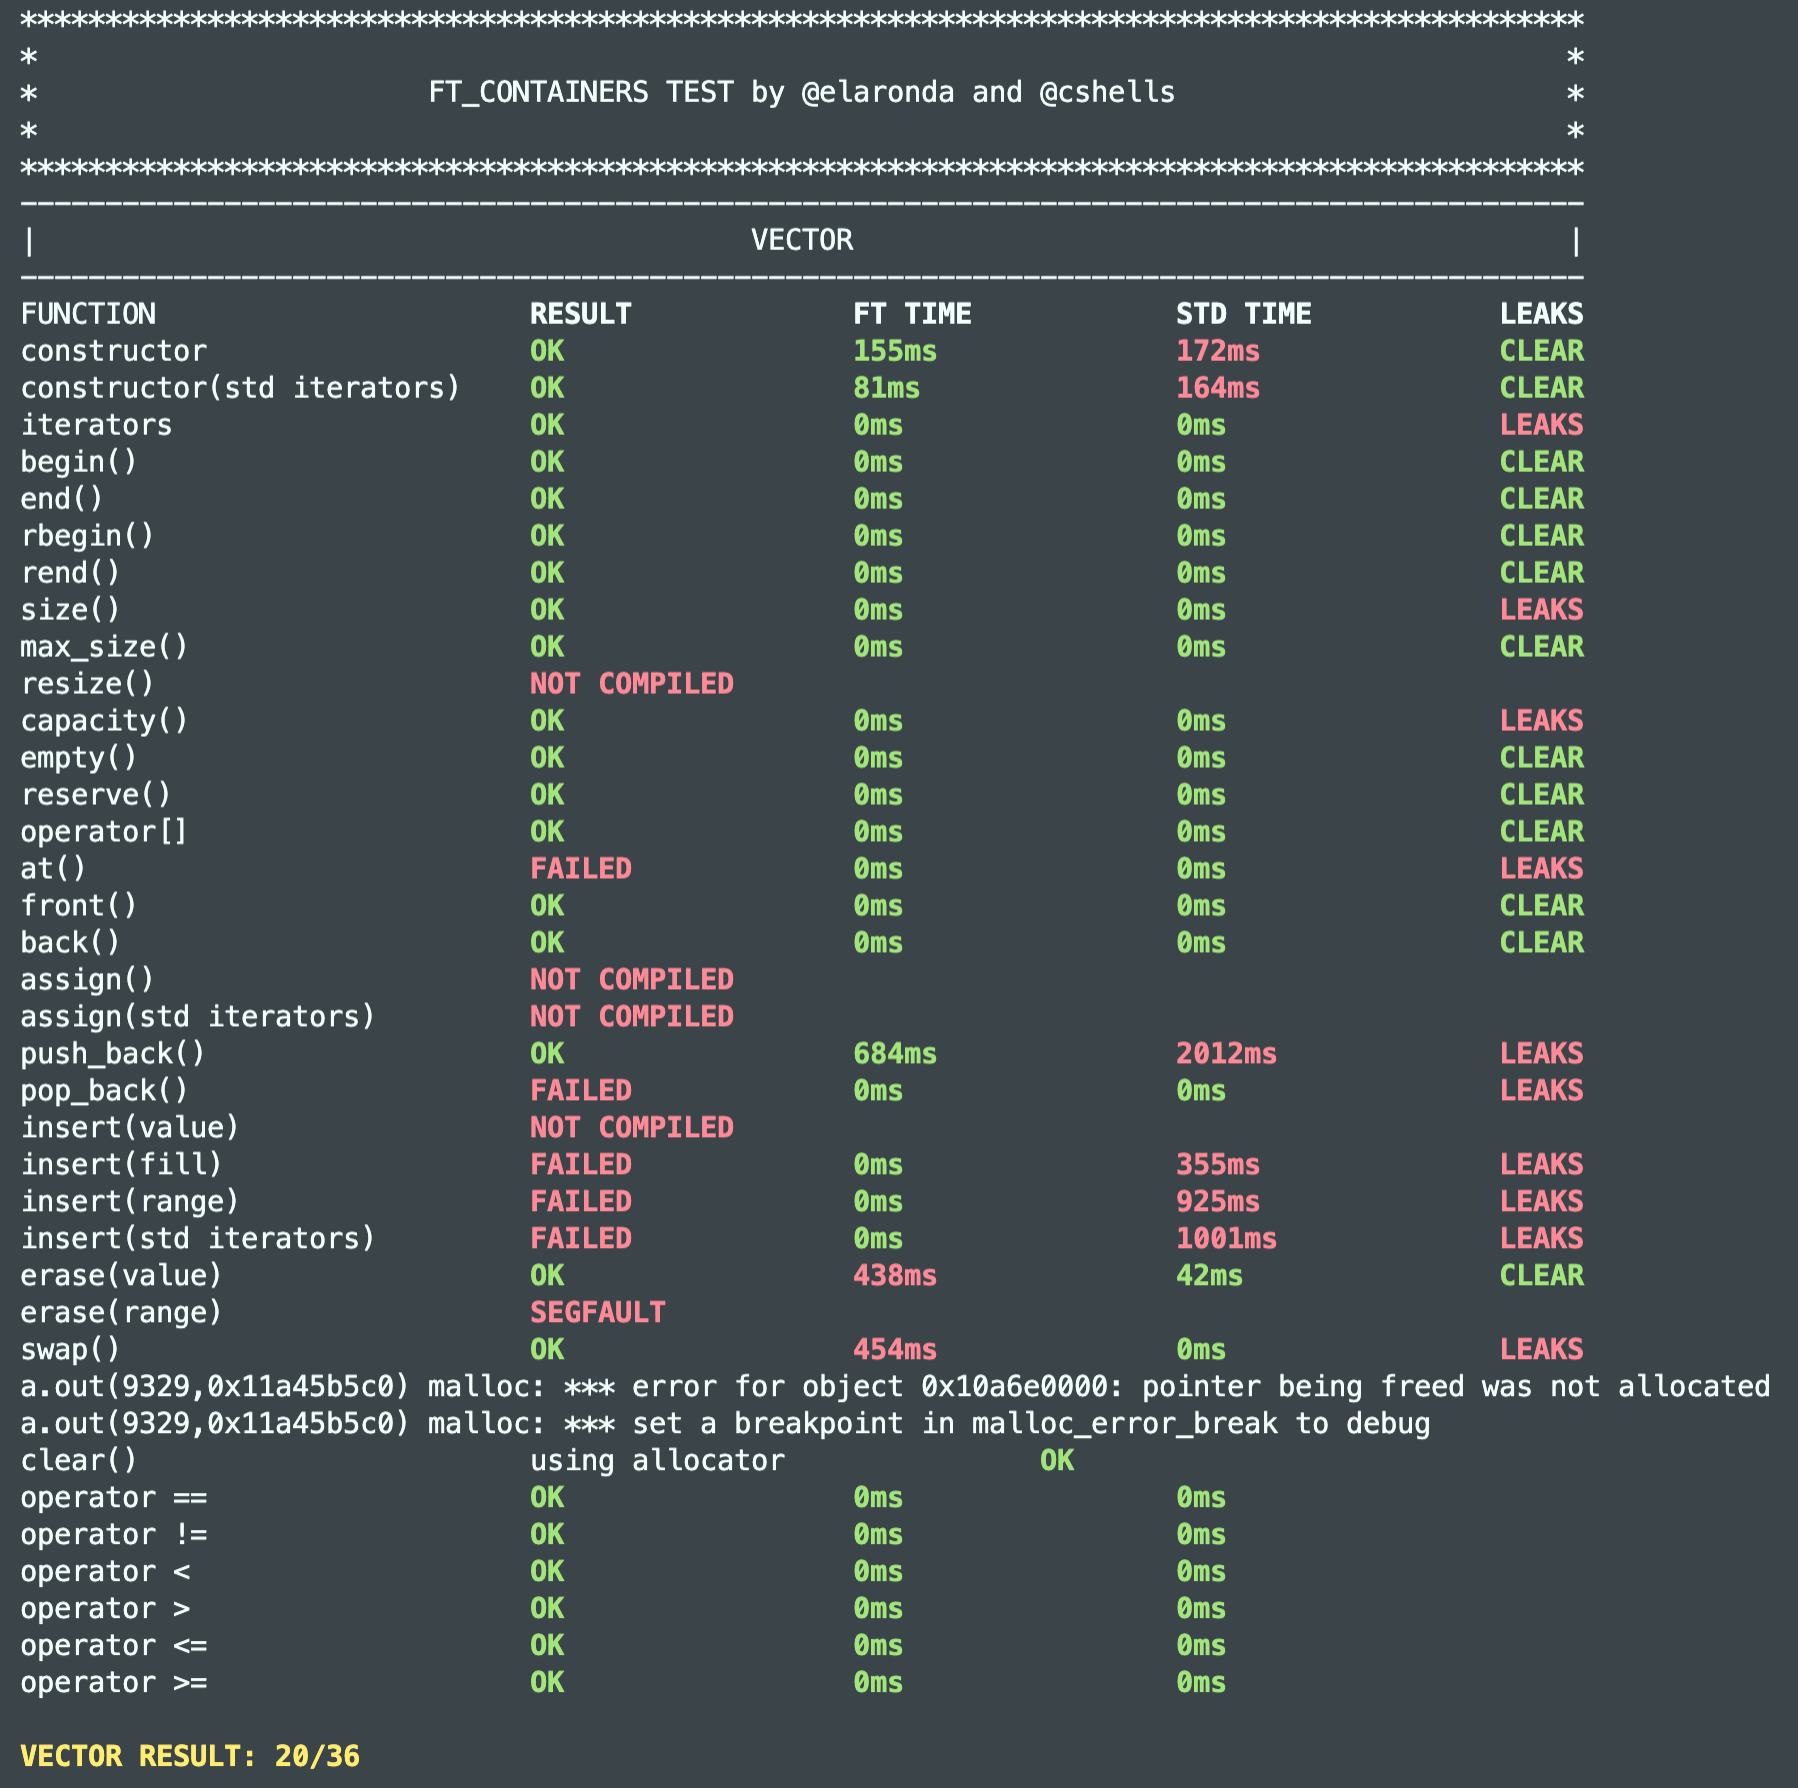
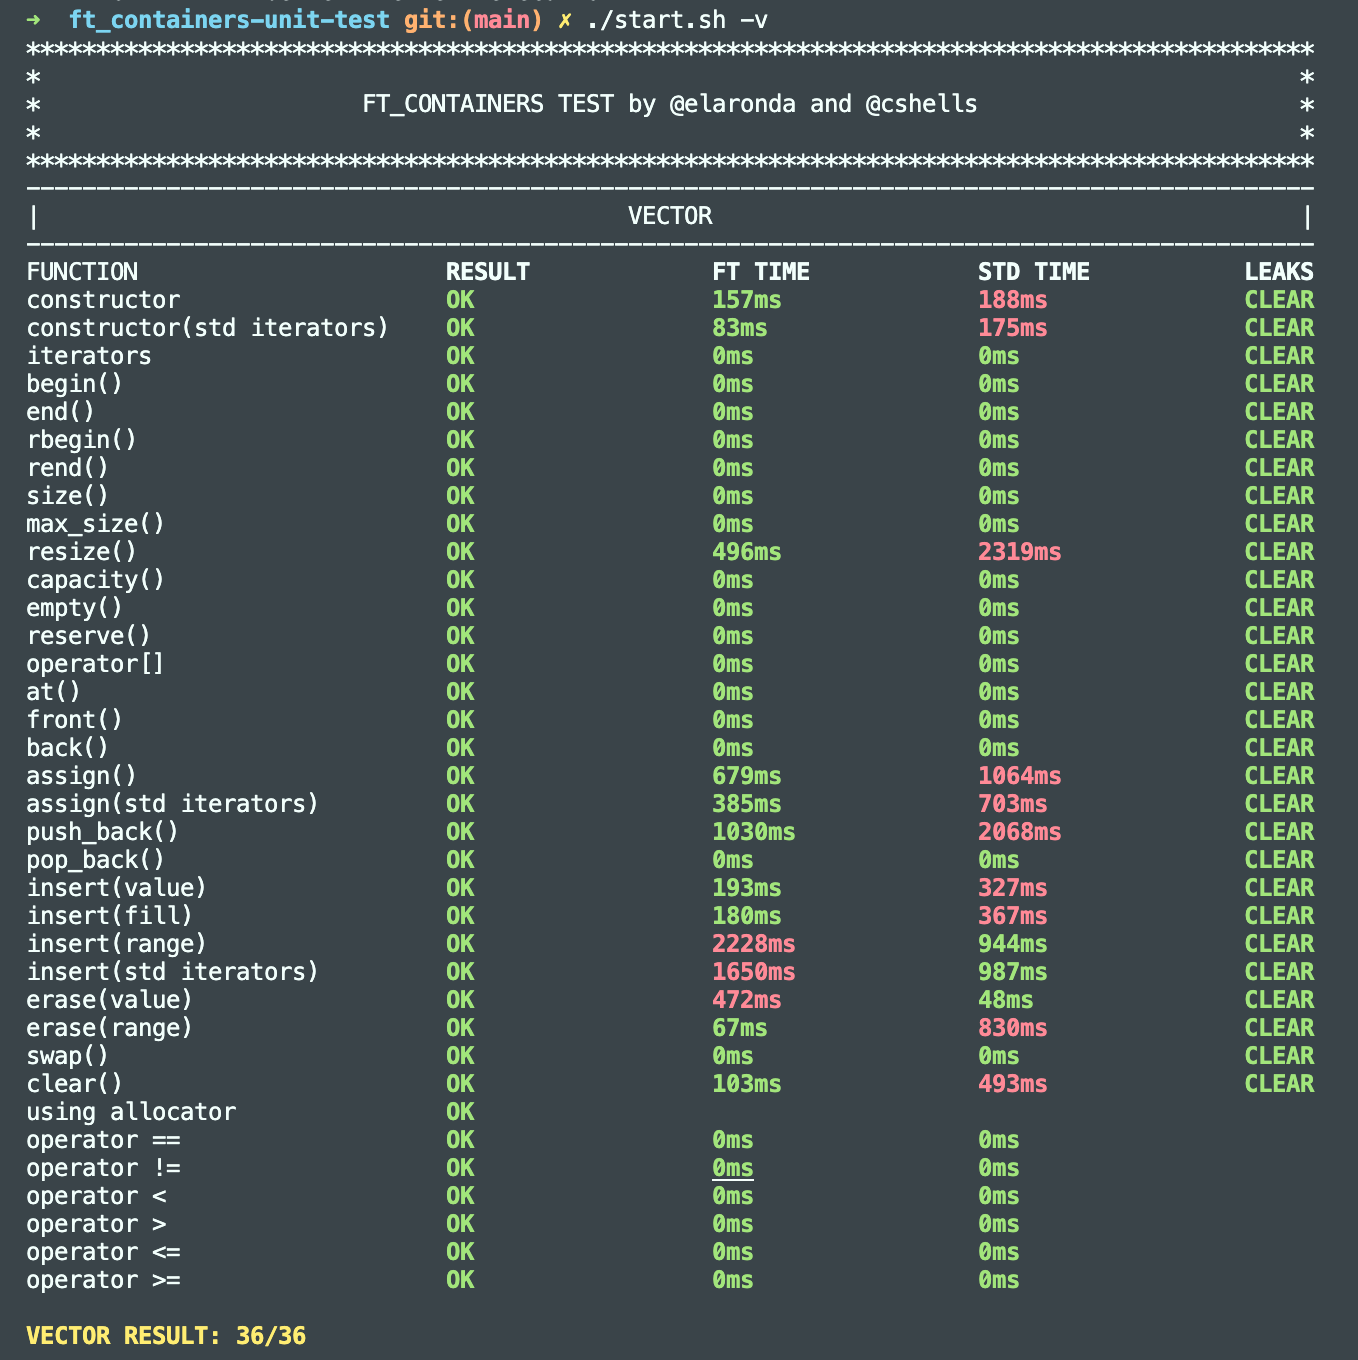
finish

diff --git a/incs/vector.hpp b/incs/vector.hpp
@@ -6,7 +6,7 @@
 /*   By: dvallien <dvallien@student.42.fr>          +#+  +:+       +#+        */
 /*                                                +#+#+#+#+#+   +#+           */
 /*   Created: 2022/12/08 13:45:19 by dvallien          #+#    #+#             */
-/*   Updated: 2023/01/17 16:35:15 by dvallien         ###   ########.fr       */
+/*   Updated: 2023/01/18 14:16:41 by dvallien         ###   ########.fr       */
 /*                                                                            */
 /* ************************************************************************** */
 
@@ -106,16 +106,13 @@ namespace ft
 			//operator =
 			vector & operator=(const vector &other) 
 			{
-				if(this == &other)
-					return (*this);
+				// if(this == &other)
+				// 	return (*this);
 				clear();
 				reserve(other._size);
-				this->_alloc = allocator_type();
-				this->_arr = _alloc.allocate(other._capacity);
-				this->_size = other._size;
+				_size = other._size;
 				for(size_type i = 0; i < other._size; i++)
 					_alloc.construct((_arr + i), (other._arr[i]));
-				this->_capacity = other._capacity;
 				return (*this);
 			}
 			reference operator[](size_type n) { return (_arr[n]); }
@@ -145,7 +142,7 @@ namespace ft
 			reference at(size_type n)
 			{
 				if (n < 0 || n >= _size)
-					throw; //std::out_of_range("Out of range")
+					throw;
 				else
 					return (_arr[n]);
 			}
@@ -196,27 +193,24 @@ namespace ft
 				}
 				return (position);
 			}
-			// begin at index and destroy then construct one by one
 			iterator erase (iterator first, iterator last)
 			{
-				size_type diff = last - first;
+				ptrdiff_t		size_it = std::distance(first, last);
 				size_type index = first - this->begin();
 				size_type new_size;
 				
-				new_size = *(_arr + index + diff);
+				new_size = _size - size_it;
 				if(_size == 0)
 					return (last);
 				_alloc.destroy(_arr + index);
 				for(size_type i = index; i < new_size; i++)
 				{
-					_alloc.construct(_arr + i, *(_arr + i + diff));
+					_alloc.construct(_arr + i, *(_arr + i + size_it));
 					_alloc.destroy(_arr + index + 1);
 				}
-				_size -= diff;
 				for(int i = new_size; i < *(_arr + _size); i++)
-				{
 					_alloc.destroy(_arr + i);
-				}
+				_size = new_size;
 				return (first);
 			}
 			////////   FRONT   //////////
@@ -227,66 +221,88 @@ namespace ft
 			////////   INSERT    //////////
 			iterator insert(iterator position, const value_type& val)
 			{
-				return (insert(position, 1, val));
-			}
-			iterator insert(iterator position, size_type n, const value_type& val)
-			{
-				size_type	new_size = _size + n;
-				size_type	end = (new_size - 1);
 				size_type	index = position - this->begin();
+				size_type	end = _size;
 				
 				if (index > end || index < 0)
 					throw std::out_of_range("Can't insert outside vector");
 				if(_size == 0)
 				{
-					reserve(n);
-					for(size_type i = 0; i < index; i++)
-						this->push_back(val);				
+					this->push_back(val);
+					return (iterator(_arr + index));				
 				}
-				// else
-				// {
-					reserve(new_size);
-					for(size_type i = end; i > index; i--)
-					{
-						_alloc.construct((_arr + i), *(_arr + i - n));
-						_alloc.destroy(_arr + i - n);
-					}
-					for(size_type i = index; i < (index + n); i++)
-					{
-						_alloc.construct(_arr + i, val);
-						_size++;
-					}
-				// }
-				return position;
+				_size++;
+				reserve(_size);
+				while(end >= index)
+				{
+					_alloc.construct(_arr + end + 1, _arr[end]);
+					_alloc.destroy(_arr + end);
+					if(end == 0)
+						break;
+					end--;
+				}
+				_alloc.construct(_arr + index, val);
+				return (iterator(_arr + index));
+			}
+			void insert(iterator position, size_type n, const value_type& val)
+			{
+				size_type	new_size = _size + n;
+				size_type	index = position - this->begin();
+				
+				if (position < begin()|| position > end())
+					throw std::out_of_range("Invalid iterator position");
+				if(_size == 0)
+				{
+					reserve(n);
+					for(size_type i = 0; i < n; i++)
+						this->push_back(val);
+					return;				
+				}
+				reserve(new_size);
+				for(size_type i = _size; i > index + n; i--)
+				{
+					_alloc.construct(_arr + i, *(_arr + i - n));
+					_alloc.destroy(_arr + i - n);
+				}
+				for(size_type i = 0; i < n; i++)
+				{
+					_alloc.construct(_arr + index + i, val);
+				}
+				_size += n;
 			}
 			template<class InputIterator>
 			void insert(iterator position, typename ft::enable_if<!ft::is_integral<InputIterator>::value, InputIterator>::type first, InputIterator last)
 			{
-				ptrdiff_t		size_it = std::distance(first, last);
-				size_type		new_size = _size + size_it;
-				size_type		end = new_size - 1;
-				size_type		index = position - this->begin();
-				
-				if (index > end || index < 0)
-					throw std::out_of_range("Can't insert outside vector");
-				if(_size == 0)
-				{
-					reserve(size_it);
-					for(ptrdiff_t i = 0; i < size_it; i++)
-						this->push_back(*(first++));
-					return;					
-				}
+				if (position < begin() || position > end())
+					throw std::out_of_range("Invalid iterator position");
+				if (first > last)
+					throw std::out_of_range("Invalid range");
+					
+				ft::vector<typename ft::iterator_traits<InputIterator>::value_type> tmp;
+				while (first != last)
+					tmp.push_back(*first++);
+
+				difference_type index = &(*position) - _arr;
+				size_type       n = tmp.size();
+				size_type       new_size = size() + n;
+				size_type		diff = std::distance(first, last);
+
 				reserve(new_size);
-				for(size_type i = end; i > index; i--)
+				for (size_type i = 0; i < n; i++)
+					_alloc.construct(_arr + i, *(_arr + i - diff));
+				for (size_type i = size() + n - 1; i >= index + n; i--)
+					_arr[i] = _arr[i - n];
+				try
 				{
-					_alloc.construct((_arr + i), *(_arr + i - size_it));
-					_alloc.destroy(_arr + i - size_it);
+					for (size_type i = 0; i < n; i++)
+						_arr[index + i] = tmp[i];
 				}
-				for(size_type i = index; i < (index + size_it); i++)
+				catch (...)
 				{
-					_alloc.construct(_arr + i, *(first++));
-					_size++;
-				}			
+					_capacity = 0;
+					throw;
+				}
+				_size += n;
 			}
 			////////   MAX SIZE    //////////
 			size_type max_size() const { return (_alloc.max_size()); }
@@ -352,25 +368,17 @@ namespace ft
 			////////   SWAP   //////////
 			void swap(vector& other)
 			{
-            	pointer			arr;
-				size_type		size;
-				size_type		capacity;
-				Allocator		alloc;
-				
-            	arr = other._arr;
-				size = other._size;
-				capacity = other._capacity;
-				alloc = other._alloc;
-	
+            	T* arr = other._arr;
             	other._arr = _arr;
-            	other._size = _size;
-				other._capacity = _capacity;
-				other._alloc = _alloc;
-
             	_arr = arr;
+
+				size_type size = other._size;
+            	other._size = _size;
             	_size = size;
+				
+				size_type capacity = other._capacity;
+				other._capacity = _capacity;
 				_capacity = capacity;
-				_alloc = alloc;
 			}				
 	};
 	template <class T, class Alloc>
@@ -415,6 +423,15 @@ namespace ft
 	bool operator>=(const ft::vector<T, Alloc>& lhs, const ft::vector<T, Alloc>& rhs)
 	{
 		return (lhs > rhs || lhs == rhs);
+	}
+}
+
+namespace std
+{
+	template< class T, class Alloc >
+	void swap( ft::vector<T,Alloc>& lhs, ft::vector<T,Alloc>& rhs )
+	{
+		lhs.swap(rhs); 
 	}
 }
 

diff --git a/srcs/main.cpp b/srcs/main.cpp
@@ -6,7 +6,7 @@
 /*   By: dvallien <dvallien@student.42.fr>          +#+  +:+       +#+        */
 /*                                                +#+#+#+#+#+   +#+           */
 /*   Created: 2022/12/08 14:15:18 by dvallien          #+#    #+#             */
-/*   Updated: 2023/01/17 16:32:51 by dvallien         ###   ########.fr       */
+/*   Updated: 2023/01/18 13:56:13 by dvallien         ###   ########.fr       */
 /*                                                                            */
 /* ************************************************************************** */
 
@@ -20,6 +20,7 @@ int main(void)
 	std::cout << " -------------- FT::VECTOR --------------- " << std::endl;
 
 	ft::vector<int> test01;
+	ft::vector<int> test01bis;
 	for (int j = 0; j < 15; j++)
 	{
 		test01.push_back(j);
@@ -29,8 +30,11 @@ int main(void)
 
 	ft::vector<int>::iterator it;
 
-	it = test01.begin();
-	test01.insert(it, 5, 42);
+	it = test01.end();
+	// std::cout << "it = " << *it << std::endl;
+	// test01.erase(it+3, it+5);
+	test01.insert(it, 5);
+	// test01.insert(it, 42);
 
 	std::cout << std::endl;
 	for(int i = 0; i < test01.size(); i++)
@@ -44,6 +48,7 @@ int main(void)
 	std::cout << " -------------- STD::VECTOR --------------- " << std::endl;
 	
 	std::vector<int> test02;
+	std::vector<int> test02bis;
 	for (int j = 0; j < 15; j++)
 	{
 		test02.push_back(j);
@@ -53,8 +58,10 @@ int main(void)
 
 	std::vector<int>::iterator it2;
 
-	it2 = test02.begin();
-	test02.insert(it2, 5, 42);
+	it2 = test02.end();
+	// test02.erase(it2+3, it2+5);
+	test02.insert(it2, 5);
+	// test02.insert(it2, 42);
 
 	std::cout << std::endl;
 	for(int i = 0; i < test02.size(); i++)

diff --git a/README.md b/README.md
@@ -1,5 +1,7 @@
 # Implement containers : vector, map and stack
 
+# Only implement vector
+
 A container is a holder object that stores a collection of other objects (its elements). They are implemented as class templates, which allows a great flexibility in the types supported as elements.
 
 The container manages the storage space for its elements and provides member functions to access them, either directly or through iterators (reference objects with similar properties to pointers).
